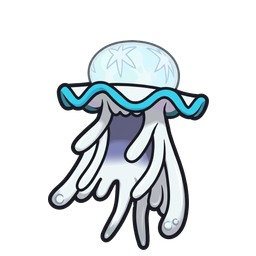
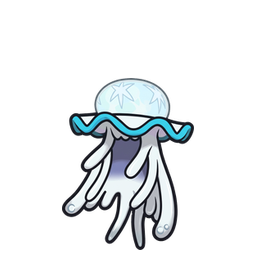
한놈만 팬다

Changed region(s): [[0.1875, 0.1562, 0.8438, 1.0]]

diff --git a/src/component/battleScreen/augment/AugmentIcon.js b/src/component/battleScreen/augment/AugmentIcon.js
@@ -1381,15 +1381,7 @@ export const AugmentIcon = ({ id, size = 42, pokemon = null, pokemonId = null, s
             <clipPath id="hyperBodySquareClip">
               <rect x="2" y="2" width="60" height="60" rx="6" ry="6" />
             </clipPath>
-            <image
-              href="/pokemon/img/augment/hyperBody.png?v=4"
-              x="2"
-              y="2"
-              width="60"
-              height="60"
-              preserveAspectRatio="xMidYMid slice"
-              clipPath="url(#hyperBodySquareClip)"
-            />
+            <image href="/pokemon/img/augment/hyperBody.png?v=4" x="2" y="2" width="60" height="60" preserveAspectRatio="xMidYMid slice" clipPath="url(#hyperBodySquareClip)" />
           </g>
         )}
 
@@ -1399,15 +1391,7 @@ export const AugmentIcon = ({ id, size = 42, pokemon = null, pokemonId = null, s
             <clipPath id="hasteSquareClip">
               <rect x="2" y="2" width="60" height="60" rx="6" ry="6" />
             </clipPath>
-            <image
-              href="/pokemon/img/augment/haste.png?v=3"
-              x="2"
-              y="2"
-              width="60"
-              height="60"
-              preserveAspectRatio="xMidYMid slice"
-              clipPath="url(#hasteSquareClip)"
-            />
+            <image href="/pokemon/img/augment/haste.png?v=3" x="2" y="2" width="60" height="60" preserveAspectRatio="xMidYMid slice" clipPath="url(#hasteSquareClip)" />
           </g>
         )}
 
@@ -1417,15 +1401,7 @@ export const AugmentIcon = ({ id, size = 42, pokemon = null, pokemonId = null, s
             <clipPath id="sharpEyesSquareClip">
               <rect x="2" y="2" width="60" height="60" rx="6" ry="6" />
             </clipPath>
-            <image
-              href="/pokemon/img/augment/sharpEyes.png?v=3"
-              x="2"
-              y="2"
-              width="60"
-              height="60"
-              preserveAspectRatio="xMidYMid slice"
-              clipPath="url(#sharpEyesSquareClip)"
-            />
+            <image href="/pokemon/img/augment/sharpEyes.png?v=3" x="2" y="2" width="60" height="60" preserveAspectRatio="xMidYMid slice" clipPath="url(#sharpEyesSquareClip)" />
           </g>
         )}
 
@@ -1435,15 +1411,7 @@ export const AugmentIcon = ({ id, size = 42, pokemon = null, pokemonId = null, s
             <clipPath id="mapleWarriorSquareClip">
               <rect x="2" y="2" width="60" height="60" rx="6" ry="6" />
             </clipPath>
-            <image
-              href="/pokemon/img/augment/mapleWarrior.png?v=3"
-              x="2"
-              y="2"
-              width="60"
-              height="60"
-              preserveAspectRatio="xMidYMid slice"
-              clipPath="url(#mapleWarriorSquareClip)"
-            />
+            <image href="/pokemon/img/augment/mapleWarrior.png?v=3" x="2" y="2" width="60" height="60" preserveAspectRatio="xMidYMid slice" clipPath="url(#mapleWarriorSquareClip)" />
           </g>
         )}
 
@@ -1453,15 +1421,7 @@ export const AugmentIcon = ({ id, size = 42, pokemon = null, pokemonId = null, s
             <clipPath id="powerStrikeSquareClip">
               <rect x="2" y="2" width="60" height="60" rx="6" ry="6" />
             </clipPath>
-            <image
-              href="/pokemon/img/augment/powerStrike.png?v=3"
-              x="2"
-              y="2"
-              width="60"
-              height="60"
-              preserveAspectRatio="xMidYMid slice"
-              clipPath="url(#powerStrikeSquareClip)"
-            />
+            <image href="/pokemon/img/augment/powerStrike.png?v=3" x="2" y="2" width="60" height="60" preserveAspectRatio="xMidYMid slice" clipPath="url(#powerStrikeSquareClip)" />
           </g>
         )}
 
@@ -1471,15 +1431,7 @@ export const AugmentIcon = ({ id, size = 42, pokemon = null, pokemonId = null, s
             <clipPath id="dragonRoarSquareClip">
               <rect x="2" y="2" width="60" height="60" rx="6" ry="6" />
             </clipPath>
-            <image
-              href="/pokemon/img/augment/dragonRoar.png?v=3"
-              x="2"
-              y="2"
-              width="60"
-              height="60"
-              preserveAspectRatio="xMidYMid slice"
-              clipPath="url(#dragonRoarSquareClip)"
-            />
+            <image href="/pokemon/img/augment/dragonRoar.png?v=3" x="2" y="2" width="60" height="60" preserveAspectRatio="xMidYMid slice" clipPath="url(#dragonRoarSquareClip)" />
           </g>
         )}
 
@@ -1489,15 +1441,7 @@ export const AugmentIcon = ({ id, size = 42, pokemon = null, pokemonId = null, s
             <clipPath id="berserkSquareClip">
               <rect x="2" y="2" width="60" height="60" rx="6" ry="6" />
             </clipPath>
-            <image
-              href="/pokemon/img/augment/berserk.png?v=4"
-              x="2"
-              y="2"
-              width="60"
-              height="60"
-              preserveAspectRatio="xMidYMid slice"
-              clipPath="url(#berserkSquareClip)"
-            />
+            <image href="/pokemon/img/augment/berserk.png?v=4" x="2" y="2" width="60" height="60" preserveAspectRatio="xMidYMid slice" clipPath="url(#berserkSquareClip)" />
           </g>
         )}
 
@@ -1507,15 +1451,7 @@ export const AugmentIcon = ({ id, size = 42, pokemon = null, pokemonId = null, s
             <clipPath id="ironWallSquareClip">
               <rect x="2" y="2" width="60" height="60" rx="6" ry="6" />
             </clipPath>
-            <image
-              href="/pokemon/img/augment/ironWall.png?v=1"
-              x="2"
-              y="2"
-              width="60"
-              height="60"
-              preserveAspectRatio="xMidYMid slice"
-              clipPath="url(#ironWallSquareClip)"
-            />
+            <image href="/pokemon/img/augment/ironWall.png?v=1" x="2" y="2" width="60" height="60" preserveAspectRatio="xMidYMid slice" clipPath="url(#ironWallSquareClip)" />
           </g>
         )}
         {/* 1. 억까 방지 (정밀 조준경 + 필중 화살 + 스파클) */}
@@ -4269,6 +4205,16 @@ export const AugmentIcon = ({ id, size = 42, pokemon = null, pokemonId = null, s
             <image href="/pokemon/img/augment/letsExplodeTogether.png" x="1" y="1" width="62" height="62" preserveAspectRatio="xMidYMid slice" />
             <circle cx="32" cy="32" r="29.5" fill="none" stroke="#8b5cf6" strokeWidth="1.8" />
             <circle cx="32" cy="32" r="28.2" fill="none" stroke="#c084fc" strokeWidth="0.5" strokeOpacity="0.65" />
+          </g>
+        )}
+
+        {/* 한놈만 팬다 (일러스트 이미지 + 원형 클리핑 & 레드 링) */}
+        {id === "focusOne" && (
+          <g clipPath="url(#lwClip)">
+            <circle cx="32" cy="32" r="30" fill="#0f172a" />
+            <image href="/pokemon/img/augment/focusOne.png?v=2" xlinkHref="/pokemon/img/augment/focusOne.png?v=2" x="-1" y="-1" width="66" height="66" preserveAspectRatio="xMidYMid slice" />
+            <circle cx="32" cy="32" r="29.5" fill="none" stroke="#ef4444" strokeWidth="1.8" />
+            <circle cx="32" cy="32" r="28.2" fill="none" stroke="#f87171" strokeWidth="0.5" strokeOpacity="0.65" />
           </g>
         )}
 

diff --git a/src/calc/damageCalculate.js b/src/calc/damageCalculate.js
@@ -378,7 +378,7 @@ export const damageCalculate = (battle, num, ai) => {
 
   // 용용 죽겠지: 드래곤 타입 포켓몬을 2마리 쓰러뜨릴 때마다 모든 능력치가 0.1배 상승
   if (attackPokemon?.hasAugment?.("dragonDie")) {
-    const atkDragonKills = Number(attackPokemon.dragonKillCount ?? attackPokemon.augments?.find((a) => a.id === "dragonDie")?.dragonKillCount ?? 0);
+    const atkDragonKills = Number(attackPokemon.dragonKillCount);
     const atkStacks = Math.floor(atkDragonKills / 2);
     if (atkStacks > 0) {
       const atkMult = Number((1 + atkStacks * 0.1).toFixed(2));
@@ -388,7 +388,7 @@ export const damageCalculate = (battle, num, ai) => {
   }
 
   if (defensePokemon?.hasAugment?.("dragonDie")) {
-    const defDragonKills = Number(defensePokemon.dragonKillCount ?? defensePokemon.augments?.find((a) => a.id === "dragonDie")?.dragonKillCount ?? 0);
+    const defDragonKills = Number(defensePokemon.dragonKillCount);
     const defStacks = Math.floor(defDragonKills / 2);
     if (defStacks > 0) {
       const defMult = Number((1 + defStacks * 0.1).toFixed(2));
@@ -398,46 +398,46 @@ export const damageCalculate = (battle, num, ai) => {
   }
 
   // 인생의 동반자: 모든 능력치가 1.1배 증가
-  if (attackPokemon?.hasAugment?.("lifePartner")) {
+  if (attackPokemon.hasAugment("lifePartner")) {
     atkStat *= 1.1;
     atkStr += " * 1.1 (인생의 동반자)";
   }
-  if (defensePokemon?.hasAugment?.("lifePartner")) {
+  if (defensePokemon.hasAugment("lifePartner")) {
     defStat *= 1.1;
     defStr += " * 1.1 (인생의 동반자)";
   }
 
   // 라스트 사무라이: 해당 포켓몬이 마지막에 홀로 남았을 경우 공격과 특수공격이 2배 증가
-  if (battle && attackPokemon?.hasAugment?.("lastSamurai") && (skill.stype === "atk" || skill.stype === "catk")) {
-    const side = attackPokemon?.team === "npc" ? "npc" : "player";
-    if (battle.isLastPokemon?.(side)) {
+  if (attackPokemon.hasAugment("lastSamurai")) {
+    const side = attackPokemon.team === "npc" ? "npc" : "player";
+    if (battle.isLastPokemon(side)) {
       atkStat *= 2;
       atkStr += " * 2 (라스트 사무라이)";
     }
   }
 
   // 나를 믿는 내가 최강이다!: 아군의 남은 포켓몬 수가 상대보다 적을 때 공격과 특수공격이 2배 증가
-  if (battle && attackPokemon?.hasAugment?.("believeInMyself") && (skill.stype === "atk" || skill.stype === "catk")) {
-    const side = attackPokemon?.team === "npc" ? "npc" : "player";
-    if (battle.hasFewerPokemonThanOpponent?.(side)) {
+  if (attackPokemon.hasAugment("believeInMyself")) {
+    const side = attackPokemon.team === "npc" ? "npc" : "player";
+    if (battle.hasFewerPokemonThanOpponent(side)) {
       atkStat *= 2;
       atkStr += " * 2 (나를 믿는 내가 최강이다!)";
     }
   }
 
   // 라스트 맨 스탠딩: 해당 포켓몬이 마지막에 홀로 남았을 경우 방어와 특수방어가 2배 증가
-  if (battle && defensePokemon?.hasAugment?.("lastManStanding") && (defenseStat === "def" || defenseStat === "cdef")) {
-    const side = defensePokemon?.team === "npc" ? "npc" : "player";
-    if (battle.isLastPokemon?.(side)) {
+  if (defensePokemon.hasAugment("lastManStanding")) {
+    const side = defensePokemon.team === "npc" ? "npc" : "player";
+    if (battle.isLastPokemon(side)) {
       defStat *= 2;
       defStr += " * 2 (라스트 맨 스탠딩)";
     }
   }
 
   // 나를 믿는 내가 최강이다!: 아군의 남은 포켓몬 수가 상대보다 적을 때 방어와 특수방어가 2배 증가
-  if (battle && defensePokemon?.hasAugment?.("believeInMyself") && (defenseStat === "def" || defenseStat === "cdef")) {
+  if (defensePokemon.hasAugment("believeInMyself")) {
     const side = defensePokemon?.team === "npc" ? "npc" : "player";
-    if (battle.hasFewerPokemonThanOpponent?.(side)) {
+    if (battle.hasFewerPokemonThanOpponent(side)) {
       defStat *= 2;
       defStr += " * 2 (나를 믿는 내가 최강이다!)";
     }
@@ -762,20 +762,19 @@ export const damageCalculate = (battle, num, ai) => {
   }
 
   // 하이리스크 하이리턴 (버프: 3배, 저주: 0.5배)
-  if (attackPokemon?.hasAugment?.("highRiskBuff") && (skill.stype === "atk" || skill.stype === "catk")) {
+  if (attackPokemon?.hasAugment?.("highRiskBuff")) {
     damage *= 3;
     attackPokemon.log.damage1 += " * 3 (하이 리턴)";
   }
 
-  if (attackPokemon?.hasAugment?.("highRiskCurse") && (skill.stype === "atk" || skill.stype === "catk")) {
+  if (attackPokemon?.hasAugment?.("highRiskCurse")) {
     damage *= 0.5;
     attackPokemon.log.damage1 += " * 0.5 (하이 리스크)";
   }
 
   // 선택과 집중: 선택한 공격기 1.5배, 다른 기술 0.5배
-  if (attackPokemon?.hasAugment?.("choiceAndFocus") && (skill.stype === "atk" || skill.stype === "catk")) {
-    const focusSkillName = attackPokemon.choiceAndFocusSkillName;
-    if (skill.name === focusSkillName) {
+  if (attackPokemon?.hasAugment?.("choiceAndFocus")) {
+    if (skill.name === attackPokemon.choiceAndFocusSkillName) {
       damage *= 1.5;
       attackPokemon.log.damage1 += ` * 1.5 (선택과 집중+)`;
     } else {
@@ -785,15 +784,26 @@ export const damageCalculate = (battle, num, ai) => {
   }
 
   // 제로섬게임: 랜덤한 기술 하나의 위력이 2배, 다른 기술 하나의 위력이 절반
-  if (attackPokemon?.hasAugment?.("zeroSumGame") && (skill.stype === "atk" || skill.stype === "catk")) {
-    const buffSkillName = attackPokemon.zeroSumBuffSkillName;
-    const nerfSkillName = attackPokemon.zeroSumNerfSkillName;
-    if (buffSkillName && skill.name === buffSkillName) {
+  if (attackPokemon?.hasAugment?.("zeroSumGame")) {
+    if (skill.name === attackPokemon.zeroSumBuffSkillName) {
       damage *= 2;
       attackPokemon.log.damage1 += ` * 2 (제로섬게임+)`;
-    } else if (nerfSkillName && skill.name === nerfSkillName) {
+    } else if (skill.name === attackPokemon.zeroSumNerfSkillName) {
       damage *= 0.5;
       attackPokemon.log.damage1 += ` * 0.5 (제로섬게임-)`;
+    }
+  }
+
+  // 한놈만 팬다: 맨 처음 공격한 상대에게 1.5배, 그 외 상대에겐 0.8배
+  if (attackPokemon?.hasAugment?.("focusOne")) {
+    const isTarget = defensePokemon.baseName === attackPokemon.focusOneTarget;
+
+    if (isTarget) {
+      damage *= 1.5;
+      attackPokemon.log.damage1 += " * 1.5 (한놈만 팬다+)";
+    } else {
+      damage *= 0.8;
+      attackPokemon.log.damage1 += " * 0.8 (한놈만 팬다-)";
     }
   }
 

diff --git a/src/entity/Augment/AugmentData.js b/src/entity/Augment/AugmentData.js
@@ -246,6 +246,22 @@ export const getArcaneSwordData = (pokemon = null, source = null, options = null
 export const AUGMENT_LIST = [
   // 단순 구현 ==========================================================
   {
+    id: "focusOne",
+    name: "한놈만 팬다",
+    desc: "맨 처음 공격한 상대에게 1.5배의 데미지를 입힙니다. 그 외에 상대에겐 0.8배의 데미지를 입힙니다.",
+    cost: 1,
+    weight: 100,
+    isEligible: (pokemon) => hasAttackSkill(pokemon),
+    statusModalText: function (pokemon) {
+      const targetName = pokemon.focusOneTarget;
+      if (targetName) {
+        return `${this.desc}\n(현재 타깃 대상: ${targetName})`;
+      }
+      return this.desc;
+    },
+    // damageCalculate.js 및 skillUse.js에 구현
+  },
+  {
     id: "metronome",
     name: "메트로놈",
     desc: "똑같은 기술을 연속으로 사용하면 위력이 20%씩 최대 5번 증가합니다. 그만두면 위력이 되돌아갑니다.",

diff --git a/src/entity/Pokemon/PokemonInstance.js b/src/entity/Pokemon/PokemonInstance.js
@@ -37,6 +37,7 @@ class PokemonInstance {
     if (team === "npc") {
       this.name = "상대 " + this.name;
     }
+    this.instanceId = Math.random().toString(36).substring(2, 9);
 
     this.hp = this.o.hp; // 현재 체력
     this.type1 = this.o.type1;
@@ -151,6 +152,7 @@ class PokemonInstance {
       choiceAndFocusSkillName: null, // 선택과 집중으로 강화된 기술명
       zeroSumBuffSkillName: null, // 제로섬게임으로 2배 강화된 기술명
       zeroSumNerfSkillName: null, // 제로섬게임으로 절반 약화된 기술명
+      focusOneTarget: null, // [증강] 한놈만 팬다: 맨 처음 공격한 상대 이름 (origin name)
       pickedAbility: null, // 특성 야바위 뽑은 특성 (증강 유지시 필요)
       butItRefusedUsed: false, // [증강] 하지만 버텨냈다: 배틀 중 1회 발동 여부
       nothingHappenedUsed: false, // [증강] 아무일도 없었다...!: 배틀 중 1회 발동 여부

diff --git a/src/service/skillUse.js b/src/service/skillUse.js
@@ -122,6 +122,11 @@ export const skillUse = (bt, enqueue) => {
         }
       }
 
+      // [증강] 한놈만 팬다: 맨 처음 공격한 상대 기록
+      if (atk.hasAugment("focusOne") && !atk.focusOneTarget) {
+        atk.focusOneTarget = def.baseName;
+      }
+
       let cri = atk.tempStatus.rank.critical;
       for (const effect of skill.skillEffectList) {
         if (effect.name === "급소") {

diff --git a/src/entity/Pokemon/Methods/PokemonInstanceAccess.js b/src/entity/Pokemon/Methods/PokemonInstanceAccess.js
@@ -146,6 +146,13 @@ export const PokemonInstanceAccess = {
     this.agument.zeroSumNerfSkillName = v;
   },
 
+  get focusOneTarget() {
+    return this.agument.focusOneTarget ?? null;
+  },
+  set focusOneTarget(v) {
+    this.agument.focusOneTarget = v;
+  },
+
   get butItRefusedUsed() {
     return this.agument?.butItRefusedUsed ?? false;
   },
